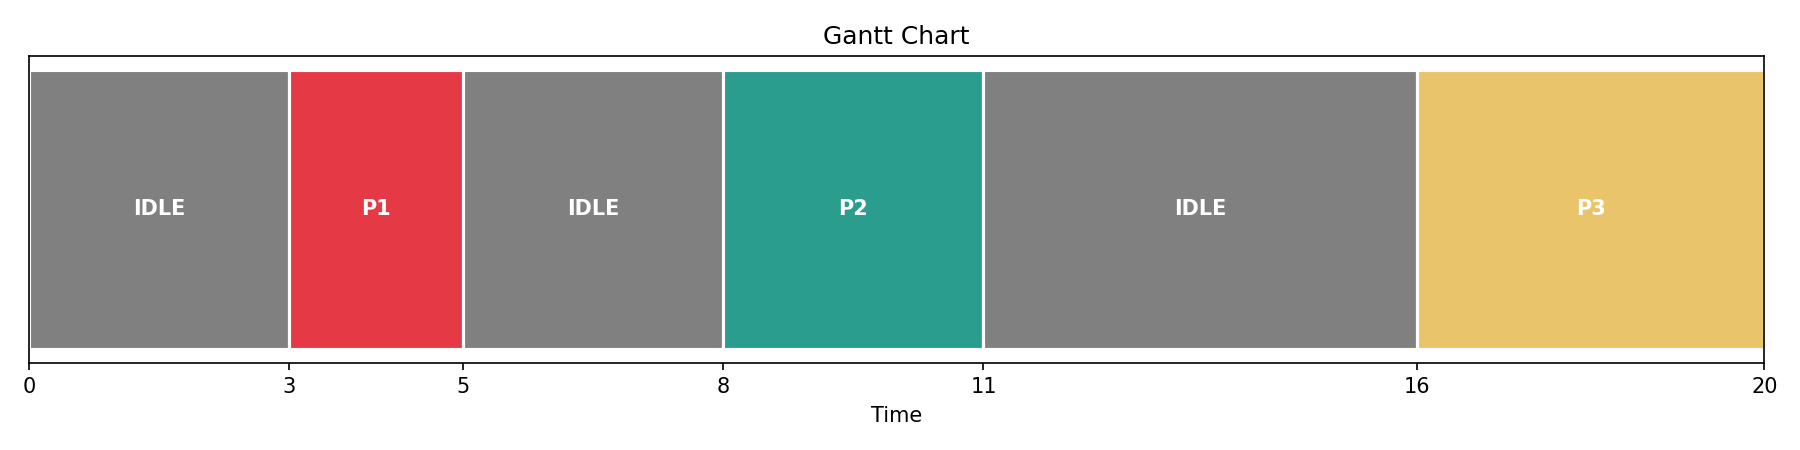
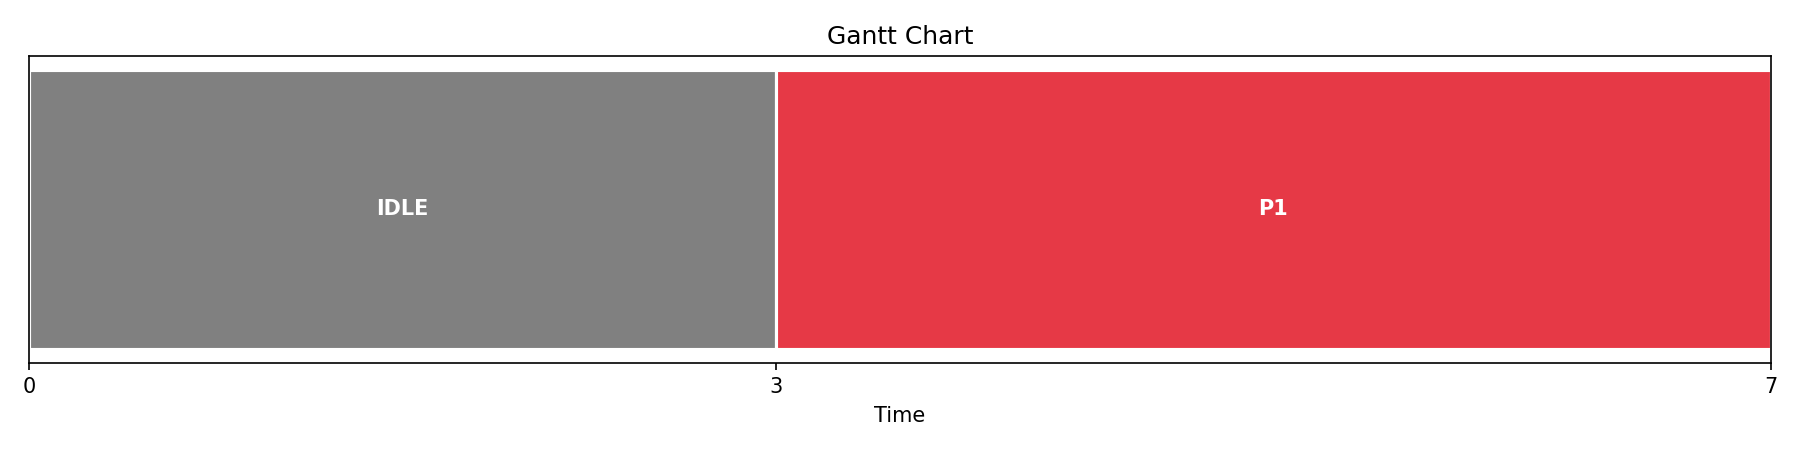
FCFS-Algorithm

diff --git a/schedulers_simulator/FCFS.py b/schedulers_simulator/FCFS.py
@@ -10,24 +10,10 @@ class FCFS:
         self.processes = sorted(processes, key=lambda p: p.arrival_time)
         self.gantt_chart = []
         current_time = 0
-<<<<<<< HEAD
-        for p in self.processes:
-            if(current_time<p.arrival_time):
-                self.gantt_chart.append(("IDLE", current_time, p.arrival_time))
-                current_time = p.arrival_time
-            p.start_time = current_time
-            current_time = current_time + p.burst_time
-            p.finish_time = current_time
-            p.isFinished = True
-            p.turnaround_time = p.finish_time - p.arrival_time
-            p.waiting_time = p.turnaround_time - p.burst_time
-            self.gantt_chart.append((p.num, p.start_time, p.finish_time))
-=======
->>>>>>> 014faed (FCFS live-sim)
 
-        if (live_sim):
+        if live_sim:
             for p in self.processes:
-                if(current_time < p.arrival_time):
+                if current_time < p.arrival_time:
                     idle_start = current_time
                     self.gantt_chart.append([0, idle_start, idle_start + 1])
                     while current_time < p.arrival_time:
@@ -58,7 +44,7 @@ class FCFS:
 
         else:
             for p in self.processes:
-                if(current_time < p.arrival_time):
+                if current_time < p.arrival_time:
                     self.gantt_chart.append([0, current_time, p.arrival_time])
                     current_time = p.arrival_time
                 p.start_time = current_time
@@ -92,18 +78,7 @@ if __name__ == "__main__":
     scheduler = FCFS()
     gantt, current_time, avg_tat, avg_wt = scheduler.run(test_processes)
 
-<<<<<<< HEAD
-    print("PID | Start | End | TAT | WT")
-    print("-" * 30)
-    for p in finished_procs:
-        print(f"{p.num}   | {p.start_time:<5} | {p.finish_time:<3} | {p.turnaround_time:<3} | {p.waiting_time}")
-
-    avg_tat, avg_wt = scheduler.calculateAverageTime()
-    print(f"\nAverage TAT: {avg_tat:.2f}")
-    print(f"Average WT: {avg_wt:.2f}")
-    print(f"Gantt Chart: {gantt}")
-=======
     print(f"\nGantt Chart: {gantt}")
     print(f"Average TAT: {avg_tat:.2f}")
     print(f"Average WT: {avg_wt:.2f}")
->>>>>>> 014faed (FCFS live-sim)
+